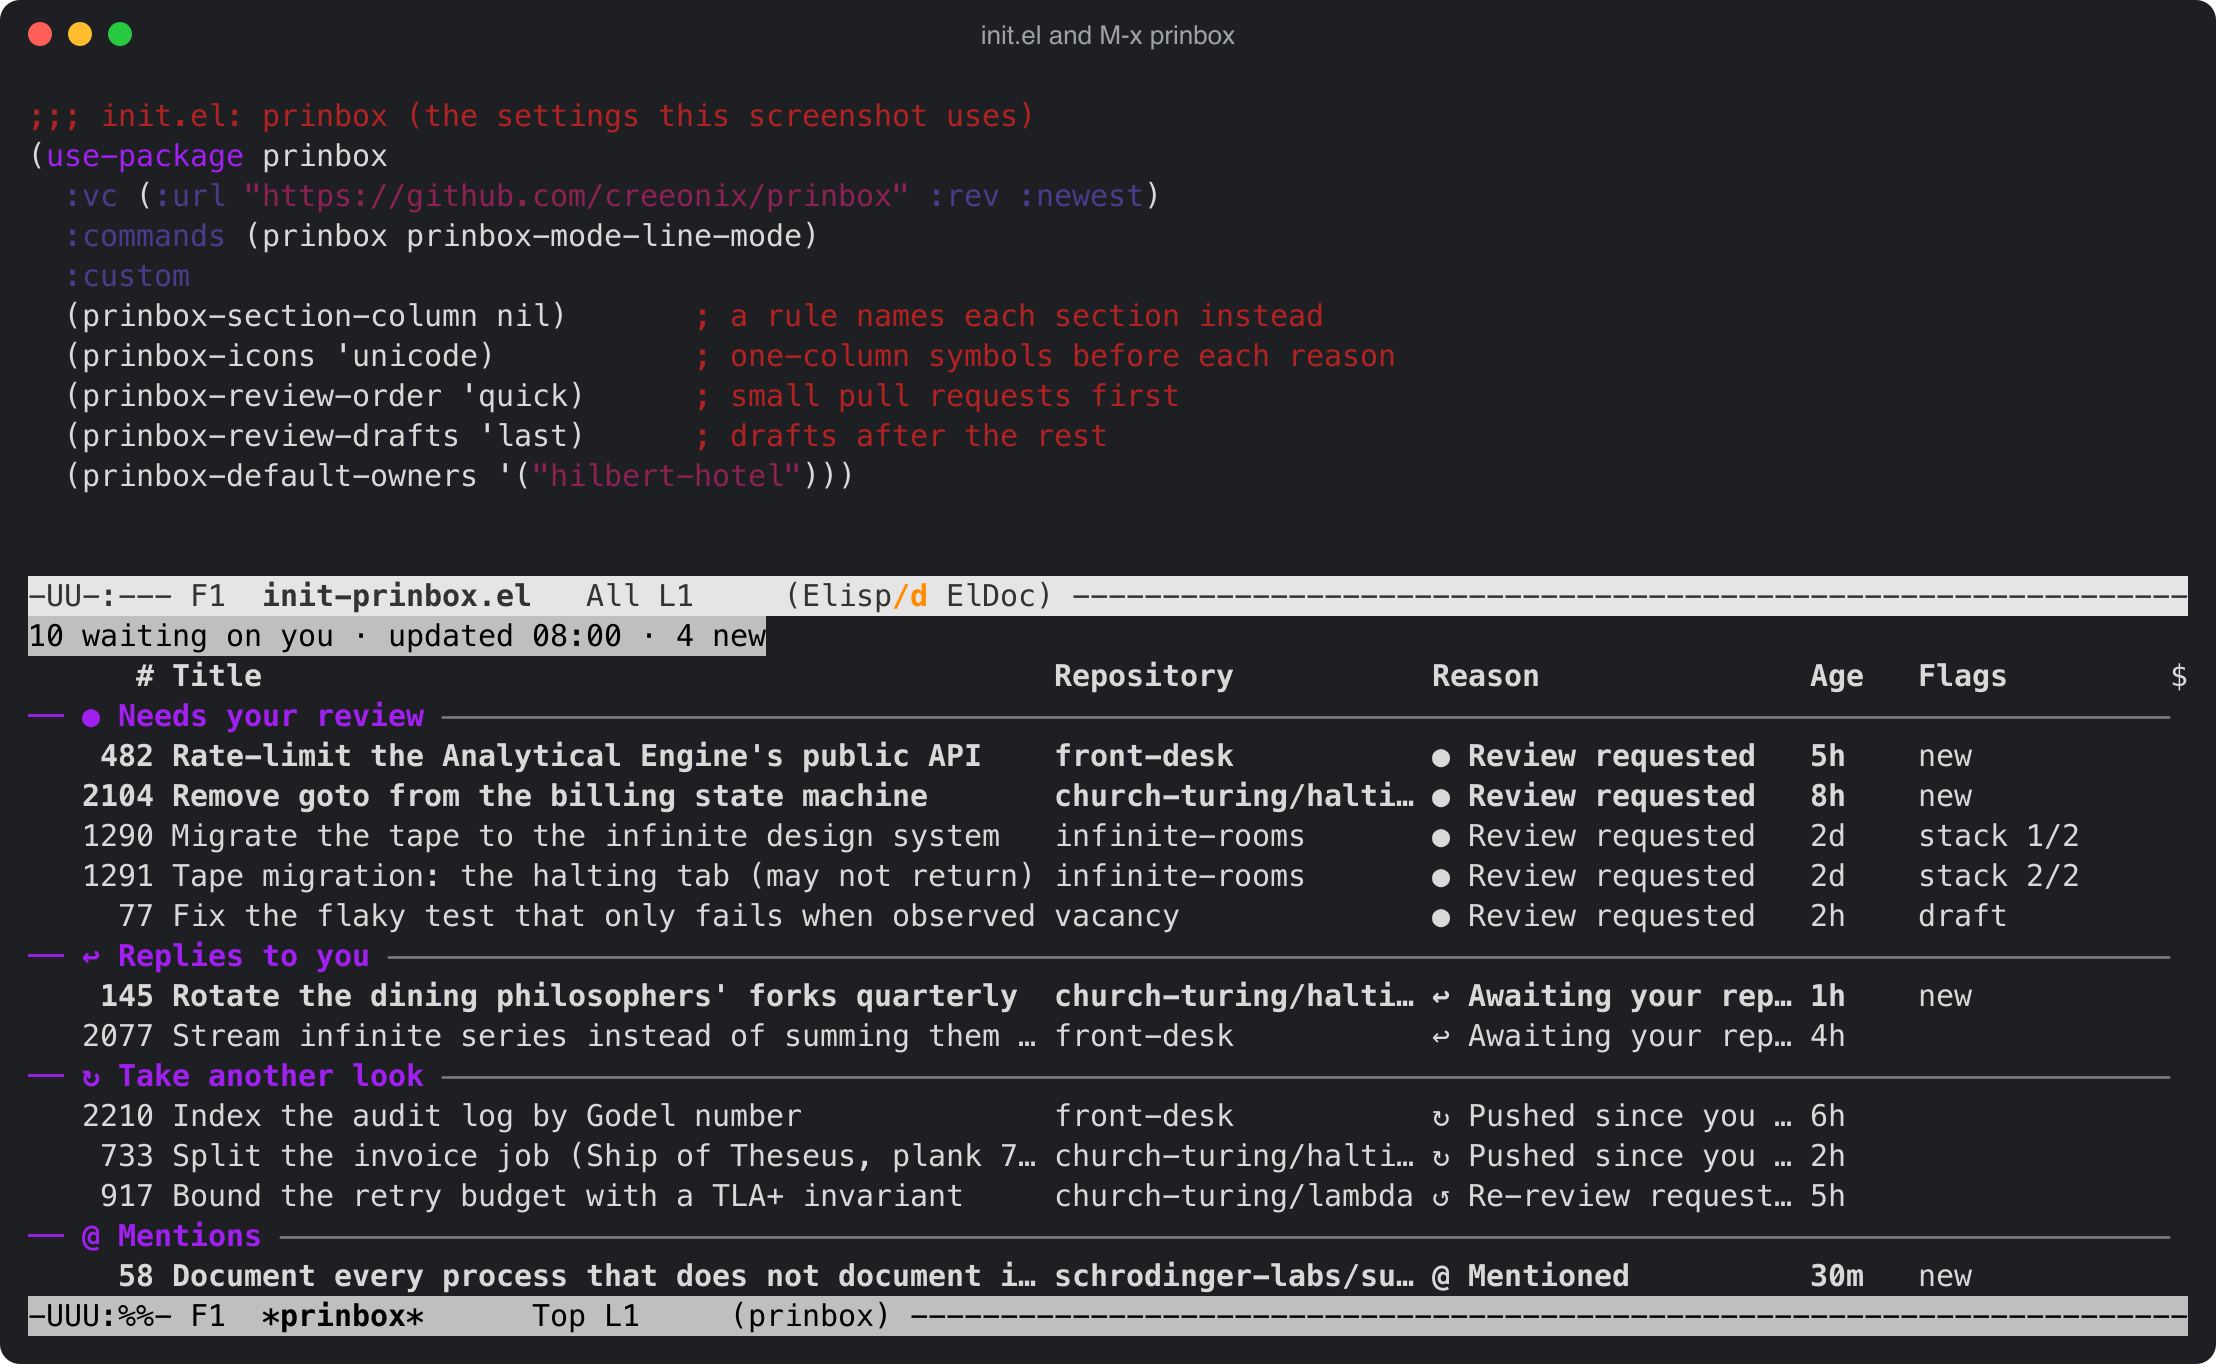
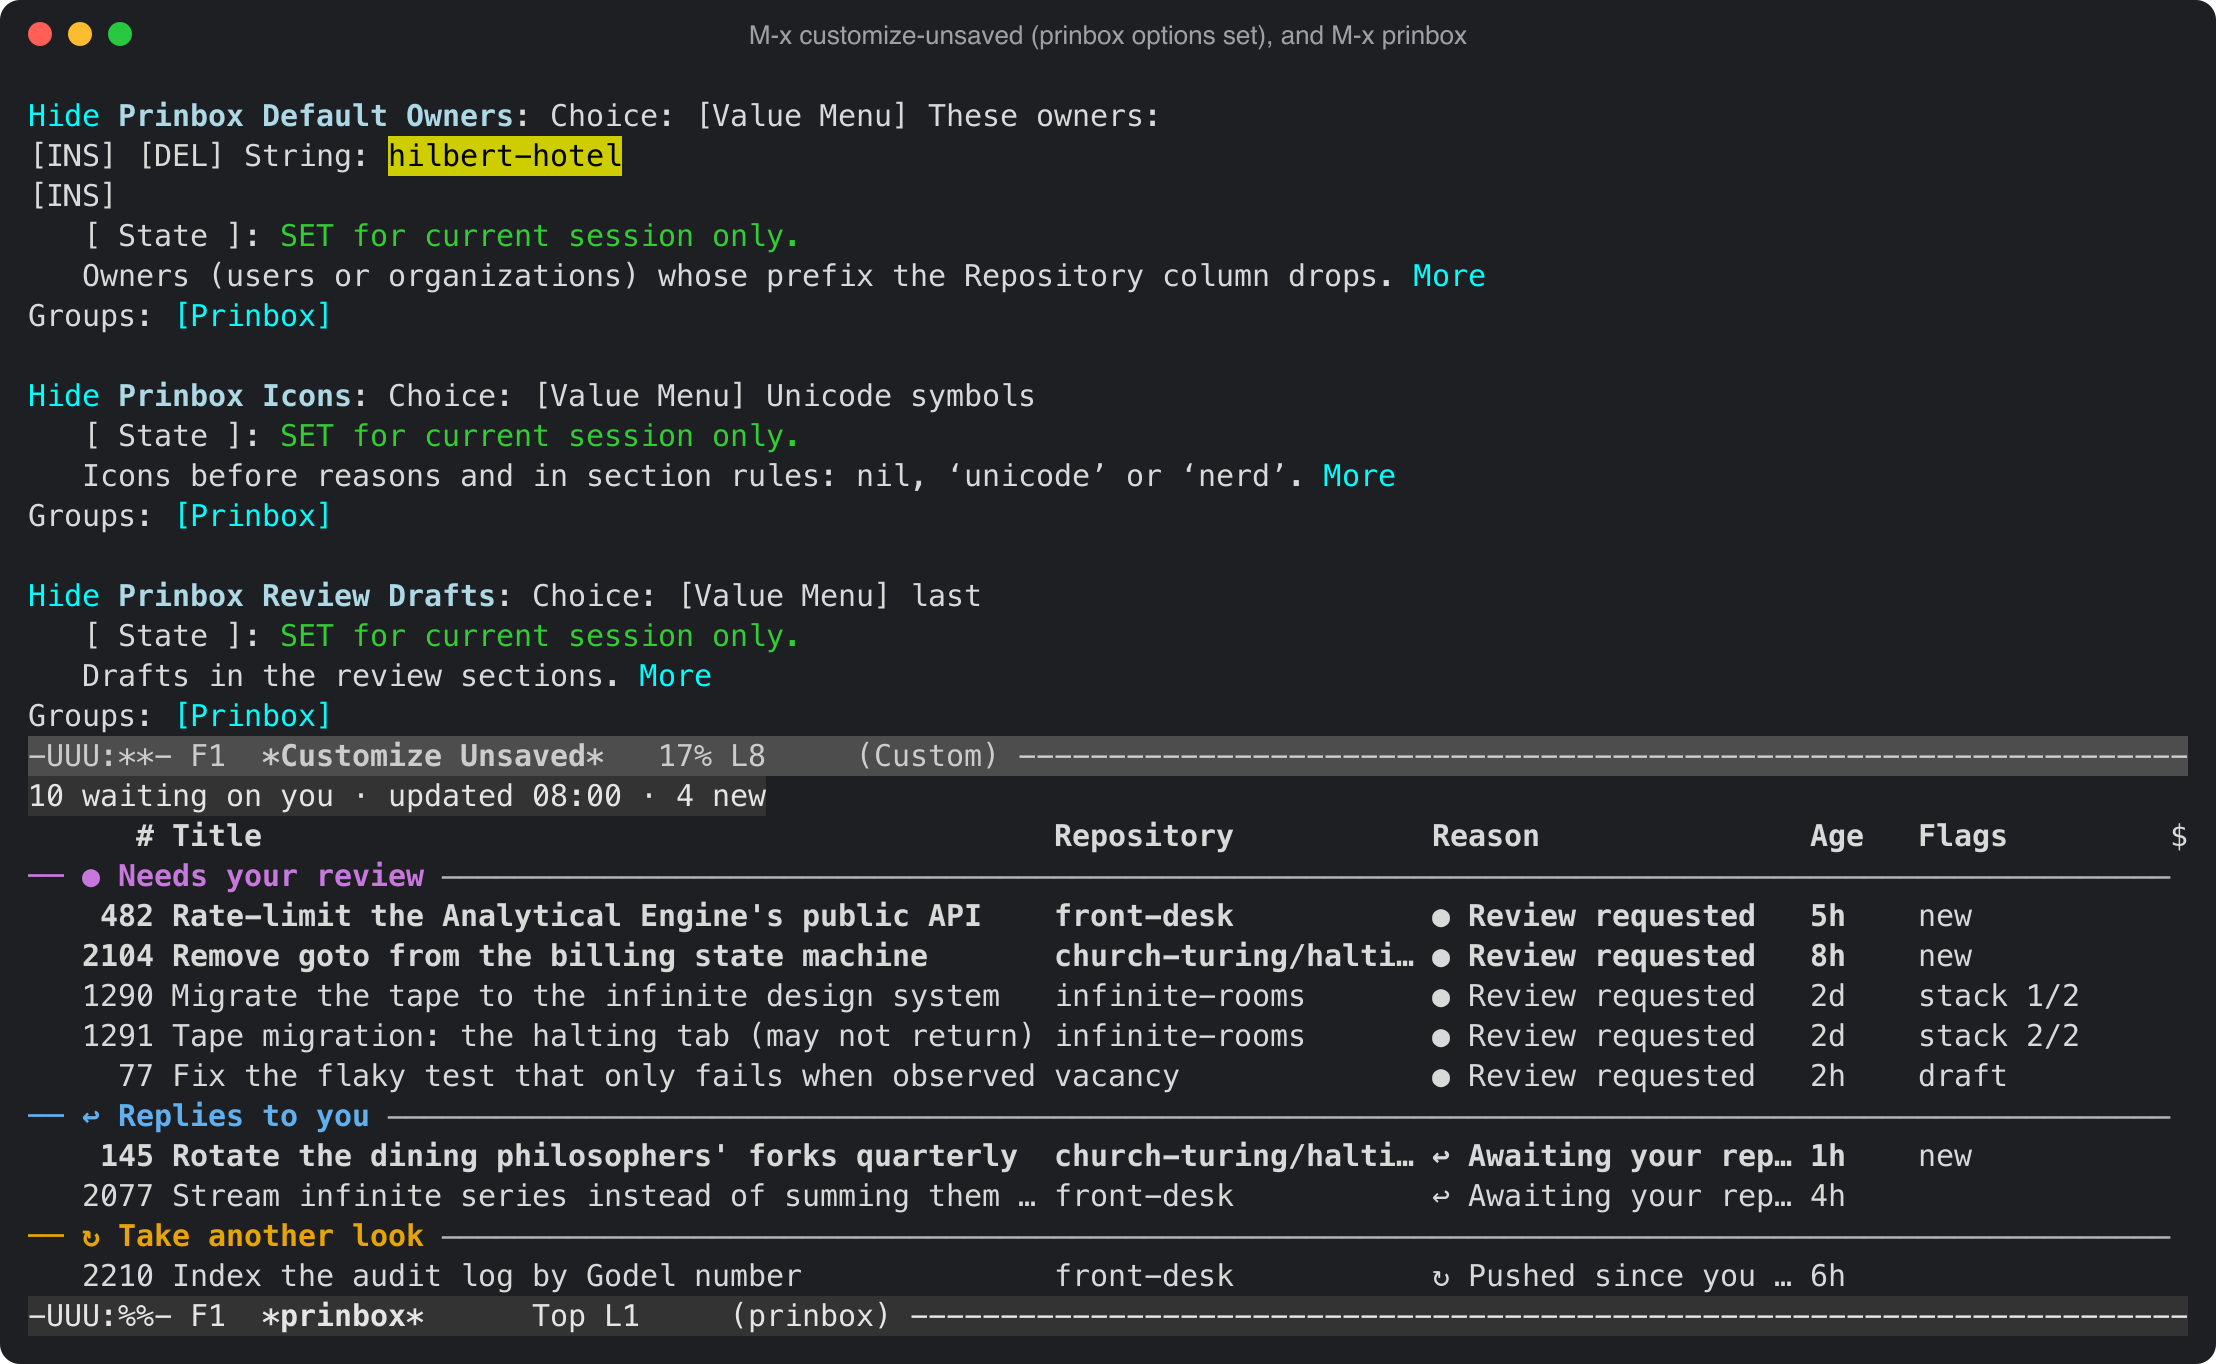
docs: configure through Customize in the Emacs screenshot; a color per section on a dark terminal

diff --git a/README.md b/README.md
@@ -276,7 +276,7 @@ Emacs 29.1 ([docs/emacs.md](docs/emacs.md)): `M-x prinbox`, a `tabulated-list` b
 ```
 
 <p align="center">
-  <img src="docs/images/emacs-config.png" width="700" alt="Emacs with the prinbox use-package entry above the *prinbox* buffer it opens, on sample data">
+  <img src="docs/images/emacs-config.png" width="700" alt="Emacs with prinbox options set in Customize above the *prinbox* buffer they shape, on sample data">
 </p>
 
 tmux 3.2 with fzf ([docs/tmux.md](docs/tmux.md)): `#{prinbox_status}` in the status line and `prefix + P` for a

diff --git a/docs/emacs.md b/docs/emacs.md
@@ -17,7 +17,7 @@ or `M-x package-vc-install RET https://github.com/creeonix/prinbox RET`. The rep
 ## Use
 
 <p align="center">
-  <img src="images/emacs-inbox.png" width="700" alt="The *prinbox* buffer on sample data, sections ruled, reason badges on">
+  <img src="images/emacs-inbox.png" width="700" alt="The *prinbox* buffer on sample data, a color per section, reason badges on">
 </p>
 
 
